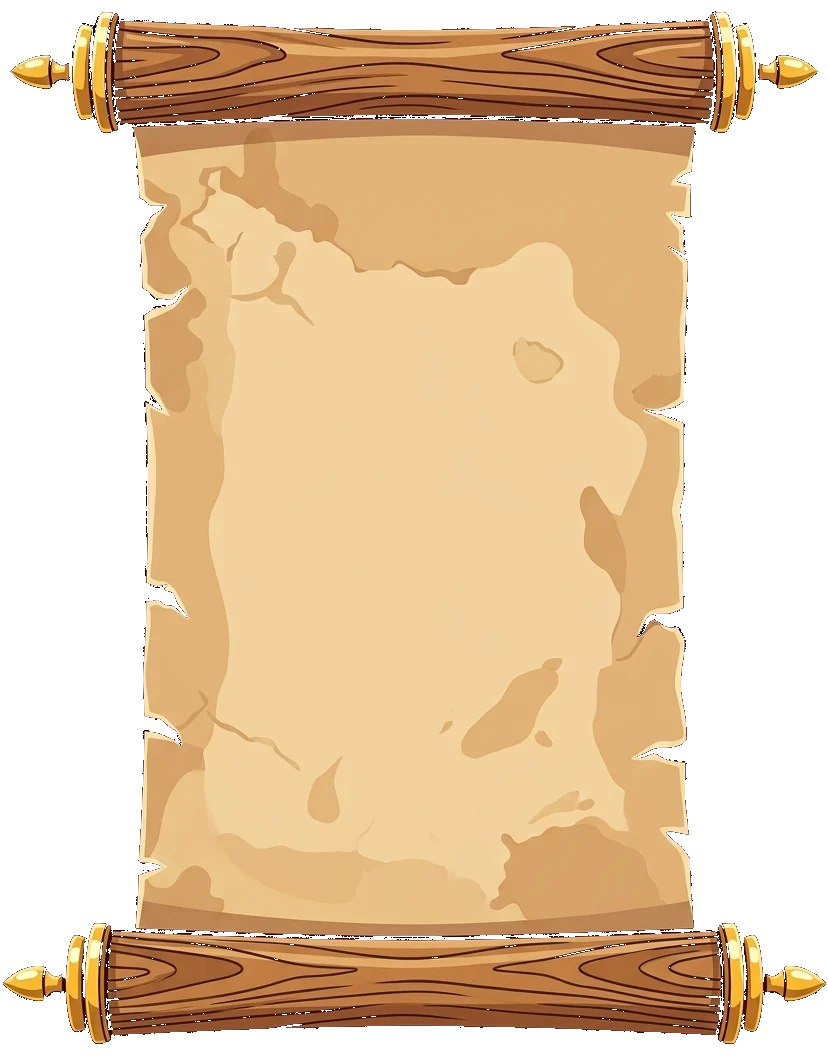
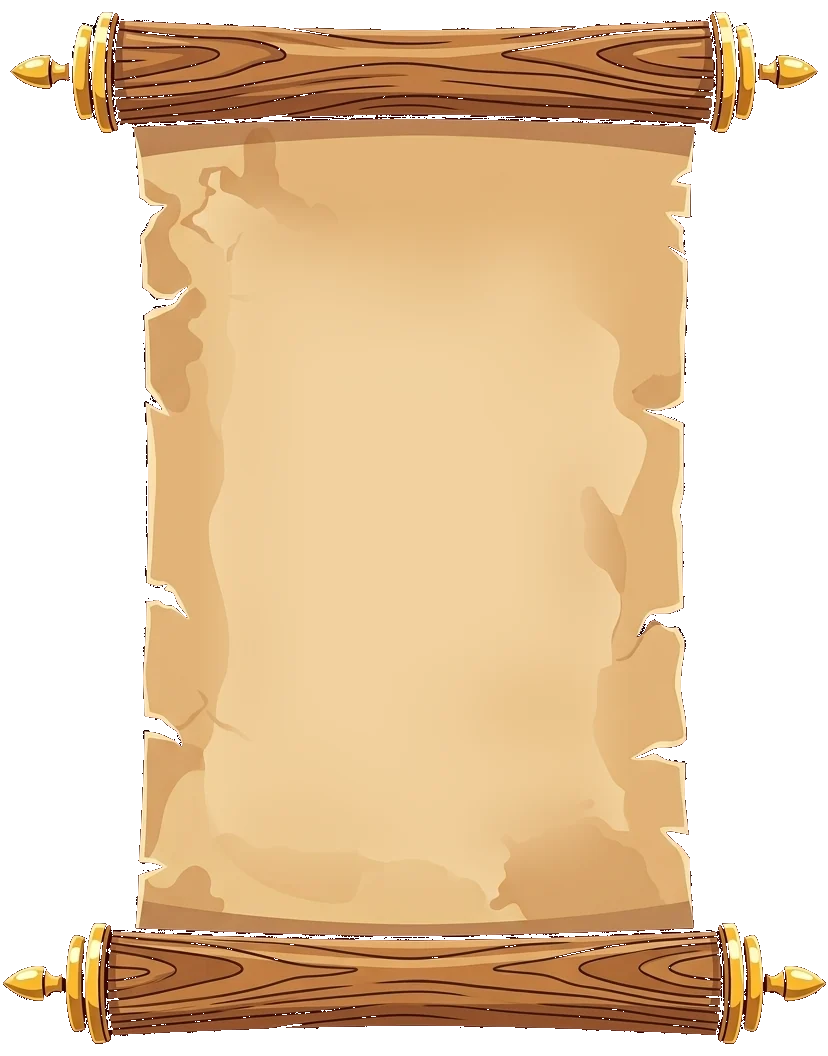
bill: plain-English rewrite, compelled-disclosure clause, satire note
Rewrite the bill out of legalese and into plain modern English, keeping the
bill's scaffolding (section headings, subsection lead-ins, the enacting
clause) so it still reads as legislation rather than as an essay.

The definition now comes FIRST, as Section 2, and says plainly what a triple
trumper is: someone who voted for Donald J. Trump three times, in 2016, 2020
and 2024. It was buried as subsection (b) of the requirements before, which
meant the reader met the obligation before they met the term.

Sentence length and vocabulary are the other half of the change: "shall be
subject to a civil fine of" becomes "a $1,776 fine", "within the preceding"
becomes a list of years, and the findings lose their subclauses. Same
argument, same escalation, readable without a law degree.

New subsection (d) in the penalties: if an officer suspects someone is a
triple trumper and they deny it, they must authorise the release of their
voter records to be checked, and refusing that release is itself a criminal
offence.

A small satire note sits under the INTRODUCED stamp. It is deliberately
quiet — present without turning the document into a joke at its own expense.

diff --git a/src/routes/bill/+page.svelte b/src/routes/bill/+page.svelte
@@ -16,7 +16,7 @@
 
 <svelte:head>
 	<title>H.R. 1 — Public Affiliation and Uniformity Disclosure Act</title>
-	<meta name="description" content="H.R. 1 — a bill before the 120th Congress." />
+	<meta name="description" content="H.R. 1 — a bill before the 120th Congress requiring anyone who voted for Trump three times to wear a MAGA hat in public." />
 	<!-- Deliberately unindexed: this page is share-by-link only. -->
 	<meta name="robots" content="noindex, nofollow" />
 </svelte:head>
@@ -39,9 +39,8 @@
 				<p class="hr">H. R. 1</p>
 
 				<p class="purpose">
-					To establish public identification requirements for designated political
-					affiliations, to provide for the enforcement of those requirements, and for
-					other purposes.
+					To require anyone who voted for Trump three times to wear a MAGA hat in
+					public, and to punish them if they do not.
 				</p>
 
 				<hr class="rule-thin" />
@@ -61,96 +60,100 @@
 					Disclosure Act&rdquo;</em>.
 				</p>
 
-				<h2 class="sec">SECTION 2. FINDINGS AND RATIONALE.</h2>
+				<h2 class="sec">SECTION 2. WHO IS A &ldquo;TRIPLE TRUMPER&rdquo;.</h2>
+				<p>
+					<strong>(a) The definition.</strong>&mdash;A &ldquo;triple trumper&rdquo; is
+					anyone who voted for Donald J. Trump three times.
+				</p>
+				<p>
+					<strong>(b) The three votes.</strong>&mdash;Those votes are the 2016, 2020,
+					and 2024 presidential elections. If you voted for him in all three, you are
+					a triple trumper.
+				</p>
+				<p>
+					<strong>(c) No arguing about it.</strong>&mdash;There is no hearing, no
+					appeal, and no way to opt out. Either you voted for him all three times, or
+					you did not.
+				</p>
+
+				<h2 class="sec">SECTION 3. WHY THIS BILL.</h2>
 				<p>The Congress finds the following:</p>
 				<ol class="findings">
 					<li>
-						Members of various demographic and minority populations possess innate
-						physical characteristics and visual identifiers that cannot be altered,
-						concealed, or removed when present in public spaces.
+						Some people are born with a face, a skin colour, or a body they cannot
+						hide when they go out in public.
 					</li>
 					<li>
-						Individuals holding specific, distinct political affiliations retain the
-						ability to conceal their ideological alignment at will in public settings,
-						and to move through the country unrecognised by those around them.
+						People who voted for Trump three times can hide that fact any time they
+						want.
 					</li>
 					<li>
-						This asymmetry permits a member of a designated political affiliation to
-						be addressed, employed, served, and befriended without the person opposite
-						them knowing what they are.
+						So a triple trumper can be hired, served, and befriended without anyone
+						knowing what they are &mdash; while everyone else is stuck showing who they
+						are.
 					</li>
 					<li>
-						To establish visual parity regarding public identity and disclosure, and to
-						ensure that no person may conceal an affiliation of public consequence,
-						public identification measures are warranted for designated political
-						groups.
+						That is not fair. Triple trumpers should have to show it too.
 					</li>
 				</ol>
 
-				<h2 class="sec">SECTION 3. MANDATORY IDENTIFICATION REQUIREMENT.</h2>
+				<h2 class="sec">SECTION 4. WHAT A TRIPLE TRUMPER MUST DO.</h2>
 				<p>
-					<strong>(a) In General.</strong>&mdash;Any individual categorised as a
-					&ldquo;triple trumper&rdquo; shall prominently wear an official Make America
-					Great Again (MAGA) hat on their head at all times while present in any
-					public space.
-				</p>
-				<!-- "three separate Presidential elections" is the real-world basis for
-				     the term: Trump appeared on the general-election ballot in 2016,
-				     2020 and 2024, so a "triple trumper" is someone who voted for him
-				     in all three. Stated as a definition rather than a list so the bill
-				     reads as legislation and not as a comment. -->
-				<p>
-					<strong>(b) Definition of Triple Trumper.</strong>&mdash;The term
-					&ldquo;triple trumper&rdquo; means any individual who has voted for Donald
-					J. Trump in three separate Presidential elections.
+					<strong>(a) The rule.</strong>&mdash;A triple trumper must wear an official
+					Make America Great Again (MAGA) hat on their head, clearly visible, at all
+					times in public.
 				</p>
 				<p>
-					<strong>(c) Public Space Defined.</strong>&mdash;In this section, the term
-					&ldquo;public space&rdquo; includes public roads, sidewalks, parks,
-					government buildings, transit systems, places of worship, schools, polling
-					places, and commercial establishments open to the general public.
+					<strong>(b) What counts as public.</strong>&mdash;Roads, sidewalks, parks,
+					government buildings, buses and trains, stores, churches, schools, polling
+					places, and anywhere else the general public is allowed.
 				</p>
 				<p>
-					<strong>(d) No Exception.</strong>&mdash;The requirement under subsection (a)
-					applies without regard to weather, occupation, medical condition, religious
-					observance, or the presence of a person&rsquo;s own children.
+					<strong>(c) No exceptions.</strong>&mdash;Not for weather. Not for work. Not
+					for a medical condition. Not for religious reasons. Not even when their own
+					children are with them.
 				</p>
 
-				<h2 class="sec">SECTION 4. PENALTIES AND ENFORCEMENT.</h2>
+				<h2 class="sec">SECTION 5. PENALTIES AND ENFORCEMENT.</h2>
 				<p>
-					<strong>(a) First Offense.</strong>&mdash;An individual who violates Section
-					3(a) for the first time shall be subject to a civil fine of $1,776.
+					<strong>(a) First time.</strong>&mdash;A $1,776 fine.
 				</p>
 				<p>
-					<strong>(b) Second Offense.</strong>&mdash;An individual who commits a second
-					violation of Section 3(a) shall be charged with a criminal misdemeanour,
-					subject to formal court proceedings, applicable criminal fines, or terms of
-					detention as determined by law.
+					<strong>(b) Second time.</strong>&mdash;A criminal misdemeanour charge, a
+					court date, and whatever fine or jail time the court decides.
 				</p>
 				<p>
-					<strong>(c) Subsequent Offenses.</strong>&mdash;An individual who commits a
-					third or subsequent violation of Section 3(a) shall be charged with a felony
-					and may be subject to imprisonment for not more than five years.
+					<strong>(c) Third time and after.</strong>&mdash;A felony, and up to five
+					years in prison.
 				</p>
 				<p>
-					<strong>(d) Enforcement.</strong>&mdash;The Attorney General shall designate
-					officers authorised to determine, on sight, whether an individual is in
-					compliance, and to demand identification supporting that determination.
+					<strong>(d) If you deny it.</strong>&mdash;If an officer suspects you are a
+					triple trumper and you say you are not, you must authorise the release of
+					your voter records so they can be checked. Refusing to authorise that
+					release is itself a criminal offence, and you may be charged.
 				</p>
 				<p>
-					<strong>(e) Public Reporting.</strong>&mdash;The Secretary shall publish,
-					quarterly, a list of individuals determined to be in violation of this
-					section.
+					<strong>(e) Who enforces this.</strong>&mdash;The Attorney General appoints
+					officers who can decide on sight whether someone is breaking this law, and
+					who can demand ID to check.
+				</p>
+				<p>
+					<strong>(f) Public list.</strong>&mdash;The Secretary publishes a public list
+					every three months of everyone found breaking this law.
 				</p>
 
-				<h2 class="sec">SECTION 5. SEVERABILITY.</h2>
+				<h2 class="sec">SECTION 6. SEVERABILITY.</h2>
 				<p>
-					If any provision of this Act is held invalid or unconstitutional, the
-					remainder of the Act shall remain in full force and effect.
+					If any part of this Act is struck down as invalid or unconstitutional, the
+					rest of it stays in force.
 				</p>
 
 				<hr class="rule-thin" />
 				<p class="center stamp">INTRODUCED</p>
+
+				<p class="satire">
+					This is satire. It is not a real bill, and it is not law.
+				</p>
 			</article>
 		</div>
 	</div>
@@ -168,41 +171,26 @@
 		margin-inline: auto;
 		--s: 0.55;
 
-		/* BORDER-IMAGE, not background: that is what lets the rollers stay
-		   their real size while the parchment stretches to whatever height the
-		   bill runs to. A plain background-size:100% 100% would squash the
-		   rollers vertically into ellipses as the text grew.
+		/* BORDER-IMAGE, not background. That is what keeps the rollers round:
+		   this page is ~2900px tall against artwork that is 1056px, and a
+		   background-size:100% 100% would stretch the rollers 2.7x vertically
+		   into ellipses. border-image draws the roller slices at a fixed size
+		   and stretches only the middle.
+
 		   Slice values are measured from the artwork (828x1056): the top roller
-		   ends at y=132, the bottom roller starts at y=922, and the parchment
-		   body runs x=145..680. `fill` is required or the middle is left empty. */
+		   ends and the parchment starts at y=175; the parchment ends at y=885
+		   and the bottom roller follows; the parchment body spans x=200..628. */
 		border-style: solid;
-		border-width: calc(132px * var(--s)) calc(148px * var(--s))
-		              calc(134px * var(--s)) calc(145px * var(--s));
+		border-width: calc(175px * var(--s)) calc(200px * var(--s))
+		              calc(171px * var(--s)) calc(200px * var(--s));
 		border-image-source: url('/images/bill/scroll-bg.webp');
-		/* NO `fill`: the middle region is left empty so it takes this element's
-		   own background instead of the image's middle slice. With `fill` the
-		   790px-tall parchment slice was stretched over ~2900px (3.7x) and the
-		   artwork's staining smeared into long vertical streaks — very visible.
-		   Tiling it instead would repeat the same stains down the page. A flat
-		   wash does neither, and the two tones here are sampled straight from
-		   the artwork (upper region srgb(229,186,129), lower srgb(234,197,142))
-		   so the fill meets the image's torn edge without a seam. */
-		border-image-slice: 132 148 134 145;
-		background: linear-gradient(180deg, #e5ba81 0%, #eac48e 60%, #eecb96 100%);
-		border-image-width: calc(132px * var(--s)) calc(148px * var(--s))
-		                    calc(134px * var(--s)) calc(145px * var(--s));
-		/* stretch, not round: the parchment body is a mostly-flat wash with a
-		   little staining, so stretching it is invisible, whereas repeating it
-		   would tile the stains into an obvious pattern down a long page. */
+		border-image-slice: 175 200 171 200 fill;
+		border-image-width: calc(175px * var(--s)) calc(200px * var(--s))
+		                    calc(171px * var(--s)) calc(200px * var(--s));
+		/* stretch, not round: the middle slice has been smoothed in the source
+		   (see the note in the image itself) so stretching it is invisible,
+		   whereas repeating it would tile the same wash down a long page. */
 		border-image-repeat: stretch;
-		/* Softens the junction where the flat wash meets the image's torn edge.
-		   Without it there is a faint vertical seam: the artwork's parchment
-		   carries a little edge shading that a flat fill cannot reproduce. These
-		   are insets, so they darken the FILL side of the join and the two read
-		   as one surface. */
-		box-shadow:
-			inset 16px 0 20px -16px rgba(120, 80, 30, 0.30),
-			inset -16px 0 20px -16px rgba(120, 80, 30, 0.30);
 		position: relative;
 	}
 
@@ -301,5 +289,18 @@
 		transform: rotate(-4deg);
 	}
 	.bill-doc > p.stamp { display: block; width: fit-content; margin-inline: auto; }
+
+	/* The satire note, kept small and quiet on purpose: it has to be present
+	   without turning the document into a joke at its own expense. Anyone who
+	   screenshots this and crops it out was always going to. */
+	.satire {
+		margin: 30px 0 0;
+		text-align: center;
+		font-family: 'Space Grotesk', system-ui, sans-serif;
+		font-size: 0.72rem;
+		letter-spacing: 0.08em;
+		text-transform: uppercase;
+		color: rgba(60, 40, 18, 0.55);
+	}
 
 </style>
